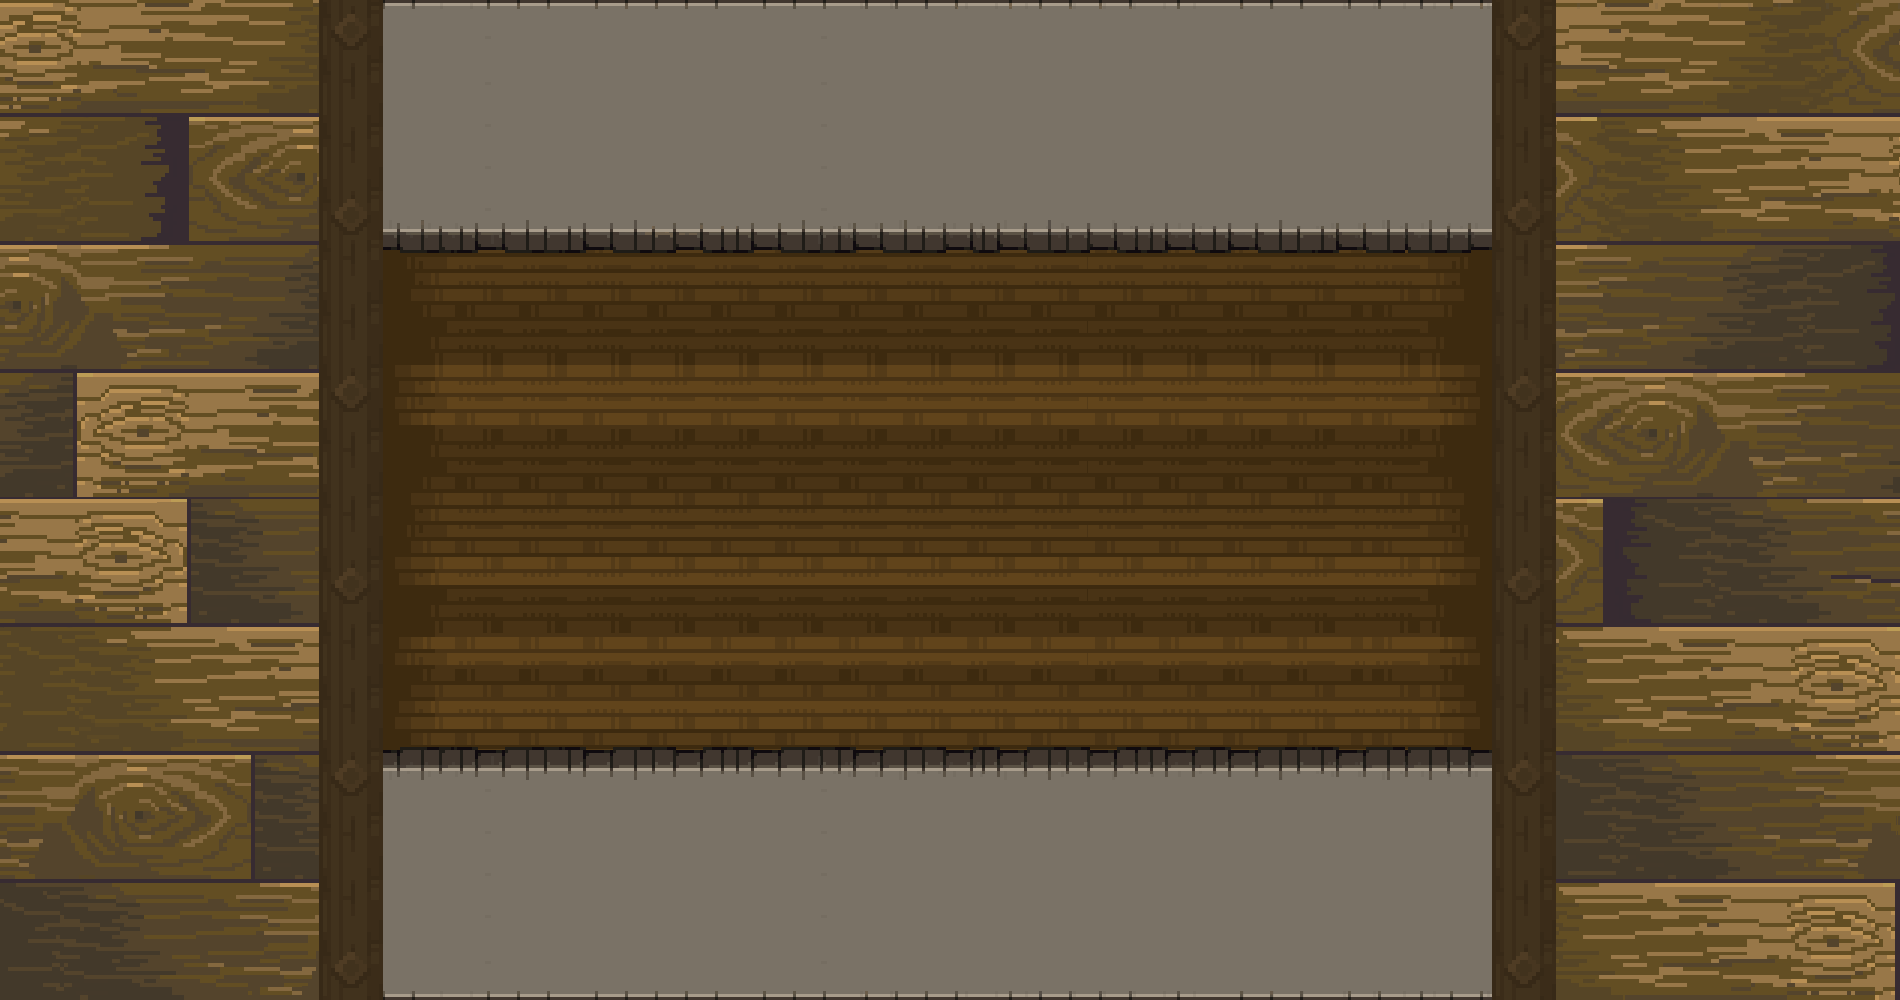
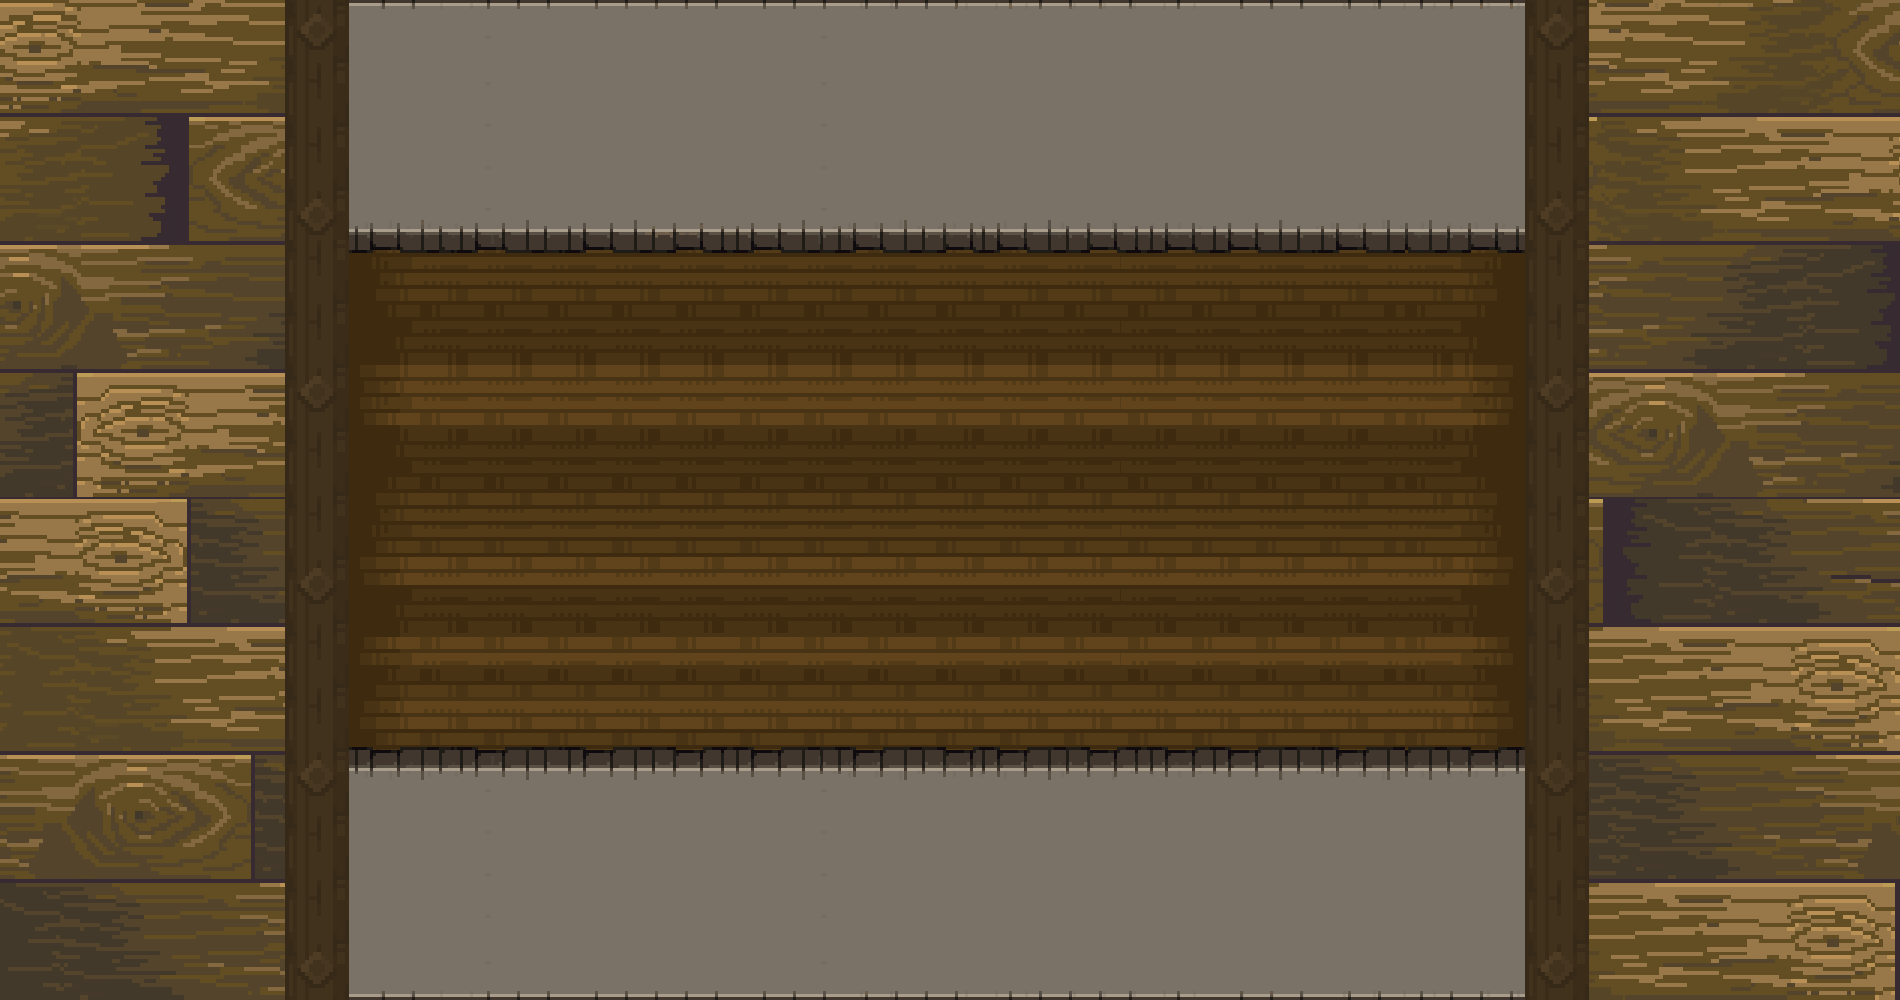
new board

Changed region(s): [[0.1242, 0.372, 0.2174, 1.0], [0.7763, 0.0, 0.8384, 1.0], [0.1242, 0.0, 0.2174, 0.31]]

diff --git a/src/assets/css/Normal/CardGame/CardGame.css b/src/assets/css/Normal/CardGame/CardGame.css
@@ -259,7 +259,7 @@
   align-items: center;
   flex-direction: row;
   height: 400px;
-  width: 1700px;
+  width: 1850px;
 }
 .NextRound {
   background-image: url(https://raw.githubusercontent.com/BartoszSeno/ClickerZero/main/src/assets/MainImg/CardGame/bUp.png);
